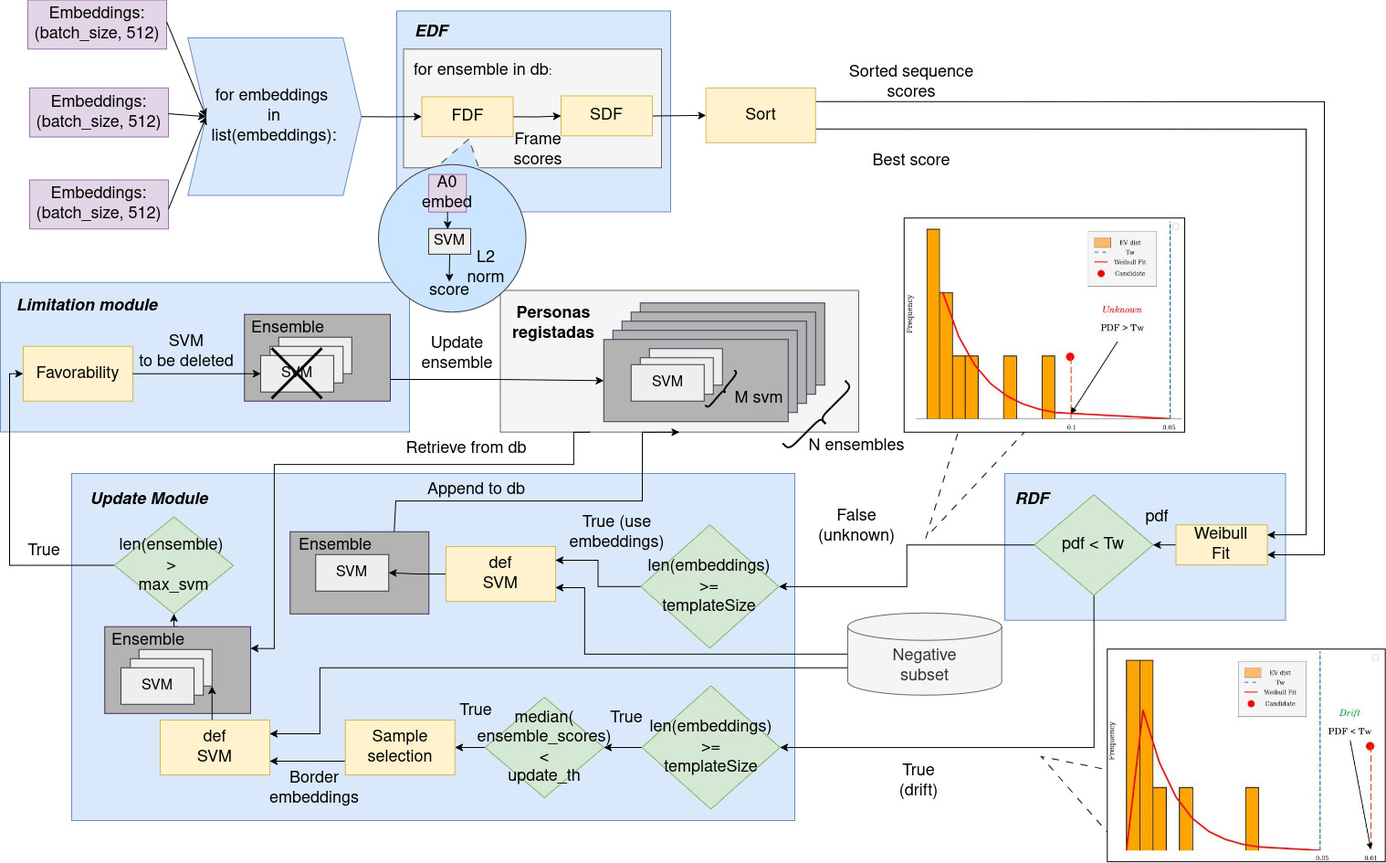
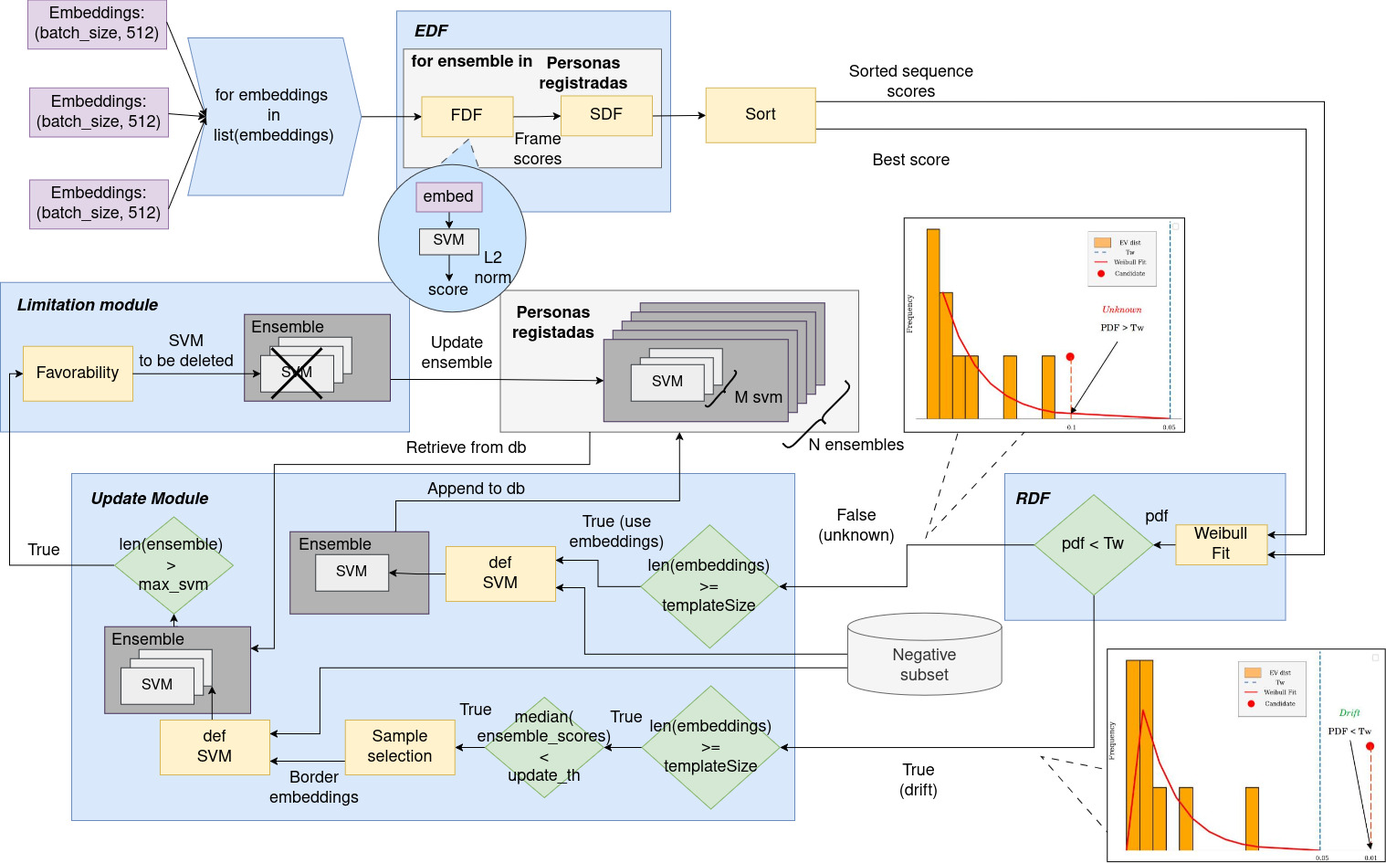
Lil bi of impl

diff --git a/TFM/contenido/6impl.tex b/TFM/contenido/6impl.tex
@@ -1,47 +1,45 @@
 \chapter{Implementación del sistema}
 \label{chap:impl}
 
-\lettrine{E}{n} este capítulo se ahonda en los fundamentos y detalles de implementación de la funcionalidad \textit{Open-World} y demás componentes para otorgar la adaptación.
+\lettrine{E}{n} este capítulo se ahonda en los fundamentos y detalles de implementación de los nuevos componentes.
 
-%\section{Fundamentos}
-%\label{subsec:erikfounds}
+TODO: Comentar implementación del procesamiento de video?
 
-TODO: El método propuesto en \cite{Erik} y que conforma la base del sistema implementado, ha sido probado en un contexto de video vigilancia bajo el \textit{\gls{dataset}} \textbf{FACE COX} \cite{cox}. También se ha utilizado el \textit{\gls{dataset}} \textbf{Youtube Faces} (YTF) \cite{ytf} que, a diferencia del anterior, se encuentra accesible de forma pública. En este proyecto se utiliza un \textit{\gls{dataset}}\dots
-El método utiliza \textbf{secuencias de video} como entrada para devolver las predicciones acerca de un IoI o para determinar una identidad desconocida.
-
-La figura \ref{fig:FITS}.
-
-\begin{figure}
-    \centering
-    \includegraphics[width=1\linewidth]{imagenes/FITS.jpg}
-    \caption{Ejemplos de distribuciones del \acrshort{evt} y como el umbral (Tw) distingue entre un desconocido (\textit{unknown} y una deriva (\textit{drift})).}
-    \label{fig:FITS}
-\end{figure}
-
-\section{Capacidad de adaptación}
-\label{sec:adapt}
-
-\subsection{Inicialización}
-
-TODO: figura?
+\section{Inicialización}
 
 En esta primera fase del sistema se crean los registros que representarán a los individuos iniciales. En este proyecto se han probado 2 aproximaciones:
 \begin{itemize}
-    \item \textbf{Supervisado}: el operador realiza una selección de los frames más representativos para cada individuo.
-    \item \textbf{No supervisado}: el sistema recoge los frames cuando aparecen un mínimo de 5 entidades simultaneas en escena (el mínimo necesario de puntos para poder aplicar Weibull). A partir de los frames de las cámaras, que estarán sincronizadas, se obtienen las \glspl{bbox} que encierran los rostros y se procede a la creación de los comités con los recortes de caras generados. \textbf{No se requiere de ninguna intervención del operador}, el sistema realiza la selección en base a unos criterios preestablecidos (ejemplo: la cara debe estar completamente dentro del rango de la cámara). En esta aproximación, es crucial el método de seguimiento (tracking) para recolectar las secuencias de caras.
+    \item \textbf{Supervisado}: el operador realiza una selección de los frames más representativos para cada individuo. El sistema crea el registro a partir de las características extraídas de dichos frames.
+    \item \textbf{No supervisado}: el sistema se encarga de recoger los frames en el instante en el que aparezcan un mínimo de entidades simultáneas en escena. A partir de los frames de las cámaras, que estarán sincronizadas, se obtienen las \glspl{bbox} y se procede a la creación de los comités con los \textit{\gls{embedding}} generados. En este modo \textbf{no se requiere de ninguna intervención del operador}, el sistema realiza la selección en base a unos criterios preestablecidos (ejemplo: la cara debe estar completamente dentro del rango de la cámara). En esta aproximación, es crucial el método de seguimiento (tracking) para recolectar las secuencias de \glspl{bbox}.
 \end{itemize}
 
-Independientemente de la aproximación escogida, se obtienen las características de cada frame de la secuencia y se crea la \acrshort{svm} inicial con la que se \textbf{inicializa el comité}. Dicha \acrshort{svm} se entrena con las características del usuario, que compondrá el set positivo, y un subconjunto de las características del resto de usuarios, que compondrá el set de negativos (escogidas aleatoriamente). Dichas características son generadas por el modelo ArcFace \cite{deng2019arcface}, es la misma red que se utiliza en \cite{Erik, andrew} y que ha demostrado ser de las mejores en el \acrshort{sota} del reconocimiento facial.
+Independientemente de la aproximación escogida, se obtienen las características de cada frame de la secuencia y se crea la \acrshort{svm} inicial con la que se \textbf{inicializa el comité}. Dicha \acrshort{svm} se entrena con las características del usuario, que compondrá el set positivo, y un subconjunto de las características del resto de usuarios, que compondrá el set de negativos (escogidas aleatoriamente).
 
-La \acrshort{svm} inicial es la que define la identidad del comité. Si dicha \acrshort{svm} está compuesta por recortes de caras de baja calidad (ejemplo: borrosas o parcialmente ocluidas), entonces el comité \textbf{no estará bien definido} y, por lo tanto, generará \textbf{mayor confusión} a la hora de aplicar Weibull para los reconocimientos.
+(TODO: donde mencionar los modelos utilizados) Dichas características son generadas por el modelo ArcFace \cite{deng2019arcface}, es la misma red que se utiliza en \cite{Erik, andrew} y que ha demostrado ser de las mejores en el \acrshort{sota} del reconocimiento facial.
 
-El resto de módulos del sistema que se exponen a continuación se ejecutan por cada secuencia de caras recolectada en cada secuencia de frames (figura \ref{fig:FACESYS}).
+La figura \ref{fig:init} muestra el funcionamiento del modo de inicialización no supervisado. A lo largo del video, se busca un instante (o frame) en el que mínimo aparezcan \textbf{5 personas} de forma simultánea, este número corresponde con la cantidad mínima de sujetos necesarios para formar una distribución de Weibull consistente \cite{Erik}. Tras localizar dicho instante, se trata de recolectar un mínimo de \glspl{bbox}, equivalente al tamaño de plantilla (templateSize) para todos los individuos por medio del método de tracking. Las \glspl{bbox} se someten a un método de filtrado que puede descartarlas si no cumplen con determinadas condiciones (ejemplo: cara parcialmente fuera de plano o una \gls{bbox} más ancha que alta). En caso de no recolectar el mínimo necesario de \glspl{bbox}, el sistema \textbf{no se inicializa}. En caso contrario, se obtienen las características (o \textit{\glspl{embedding}/features}) de los datos recogidos y se forma una estructura con los \textit{features} de todos los usuarios, que servirá para entrenar las \acrshort{svm}. Para cada individuo, se crea un \textit{ensemble} a partir de una \acrshort{svm} entrenada con las propias características del sujeto como positivos y las características del \textbf{resto de usuarios} como negativos.
+
+El funcionamiento del modo de inicialización supervisado es el mismo que el de la figura \ref{fig:init}, salvo que no es necesario seguir todo el proceso de selección de \glspl{bbox} del modo no supervisado.
+
+\begin{figure}
+    \centering
+    \includegraphics[width=1\linewidth]{imagenes/Init.jpg}
+    \caption{Inicialización no supervisada del sistema}
+    \label{fig:init}
+\end{figure}
+
+La fase de inicialización es fundamental, debido a que la \acrshort{svm} inicial es la que define la identidad del comité. Si dicha \acrshort{svm} está compuesta por muestras de baja calidad (ejemplo: caras borrosas o parcialmente ocluidas), entonces el comité \textbf{no se identificará correctamente consigo mismo} y, por lo tanto, generará \textbf{mayor confusión} a la hora de aplicar Weibull, es decir, \textbf{se generarán más desconocidos}.
+
+\section{Módulo adaptativo}
+\label{sec:adapt}
+
+A continuación se expone en detalle todas las funciones presentes en la figura \ref{fig:ADAPTSYS}.
 
 \subsection{\textit{Ensemble Decision Function} (EDF)}
 
 Es el módulo encargado de devolver una representación comparable de cada individuo que será aplicada en la decisión de reconocimiento.
 
-Por cada secuencia de entrada, siendo esta una secuencia de \textit{\glspl{embedding}} extraídas de los recortes faciales (figura \ref{fig:FACESYS}), se calculan las \textbf{puntuaciones (scores) para cada comité}. La puntuación de un comité es a su vez un valor consensuado entre los resultados de las predicciones de las \acrshort{svm} que lo conforman, el criterio de consenso (o de fusión) se basa en un percentil (generalmente la media). Aplicar percentiles es igual a escoger un conjunto amplio o reducido de \acrshort{svm}, ya que pueden existir \acrshort{svm} dañinas para el comité (ejemplo: corresponden a otra persona), los percentiles ayudan a descartar los resultados de dichas \acrshort{svm}. Para cada comité, se ejecutan las siguientes funciones:
+Por cada secuencia de entrada, siendo esta una secuencia de \textit{\gls{embedding}} (figura \ref{fig:ADAPTSYS}), se calculan las \textbf{puntuaciones (scores) para cada comité}. La puntuación de un comité es a su vez un valor consensuado entre los resultados de las predicciones de las \acrshort{svm} que lo conforman, el criterio de consenso (o de fusión) se basa en un percentil (generalmente la media). Aplicar percentiles es igual a escoger un conjunto amplio o reducido de \acrshort{svm}, ya que pueden existir \acrshort{svm} dañinas para el comité (ejemplo: corresponden a otra persona), los percentiles ayudan a descartar los resultados de dichas \acrshort{svm}. Para cada comité en la base de datos, se ejecutan las siguientes funciones:
 \begin{itemize}
     \item \textbf{FDF} (Frame Decision Function): se calculan los scores de cada \acrshort{svm} contra \textbf{un frame} de la secuencia y se fusionan las salidas (o puntuaciones) en una única puntuación del comité para dicho frame. Antes de la fusión, se aplica la normalización Euclidiana (figura \ref{eq:l2norm}) a cada puntuación con el fin de hacerlas comparables.
     \item \textbf{SDF} (Sequence Decision Function): se encarga de fusionar todas las puntuaciones de la anterior función para obtener un único resultado que representa a la \textbf{secuencia}.
@@ -54,37 +52,33 @@ Por cada secuencia de entrada, siendo esta una secuencia de \textit{\glspl{embed
 \subsection{\textit{Recognition Decision Function} (RDF)}
 Esta función determina si la entidad detectada se corresponde a un individuo previamente reclutado o a una entidad \textbf{desconocida}.
 
-TODO: El algoritmo compone una función de Weibull ajustando los parámetros de la misma para que converga con la cola de la distribución. Dicha distribución está formada por las distancias de cada puntuación con la mediana, excluyendo la puntuación más baja (siendo teóricamente la puntuación que coincide para la entidad) y las puntuaciones por encima de la mediana. Finalmente, se determina la probabilidad de pertenencia de la puntuación más baja de la distribución, si la probabilidad es lo suficientemente baja como para concluir que no pertenece a la distribución, entonces el reconocimiento es correcto y se asigna la entidad. En caso contrario, se concluye que la entidad es desconocida. Se establece un threshold (Tw, como se muestra en el algoritmo \ref{coud:weib}).
+El código \ref{coud:weib} muestra la implementación de la función RDF. Del conjunto de scores ordenados, se excluye el primer score de la distribución (que corresponde con el más bajo, por lo tanto el mejor) y se compone la distribución de distancias de cada puntuación respecto a la mediana. De los puntos de la distribución, se obtienen los parámetros shape y scale, que modelan la función de Weibull. Finalmente, se calcula la probabilidad de pertenencia a la distribución del mejor score (función weib) y se toma la decisión en base a un umbral (Tw). Si la probabilidad es inferior al umbral, se reconoce el caso como un extremo y se asigna la identidad correspondiente al sujeto, en caso contrario se devuelve como desconocido. En la figura \ref{fig:FITS} se muestran las dos posibles salidas de la función RDF recién comentadas.
 
 \input{contenido/codes/weib}
 
+\begin{figure}
+    \centering
+    \includegraphics[width=1\linewidth]{imagenes/FITS.jpg}
+    \caption{Ejemplos de distribuciones de Weibull y como el umbral (Tw) distingue entre un desconocido (\textit{unknown} y una deriva (\textit{drift})).}
+    \label{fig:FITS}
+\end{figure}
+
 \subsection{Update Module}
-Es el módulo que implementa la actualización de los comités tras el reconocimiento realizado en la anterior función. Dado un valor c, siendo este el resultado de la función RDF, pueden darse los siguientes dos escenarios:
-\begin{itemize}
-    \item \textbf{Entidad conocida (c<Tw)}: se crea una nueva \acrshort{svm} que
-          será incluida en el comité ganador (el que tiene la puntuación más baja).
-          La \acrshort{svm} se entrena con los \textit{\glspl{embedding}} de la secuencia de entrada como
-          conjunto de positivos. Como conjunto de negativos, se realiza un muestreo aleatorio de \textit{\glspl{embedding}} \textbf{del resto de comités}.
-    \item \textbf{Entidad desconocida (c>Tw)}: se crea una \acrshort{svm} en un nuevo comité representando a la entidad.
-          El conjunto de positivos es el mismo que en el caso anterior. En el caso de los negativos,
-          las muestras de cualquier comité son válidas.
-\end{itemize}
+Es el módulo que implementa la actualización de los comités tras el reconocimiento realizado en la anterior función. Pueden darse los siguientes dos escenarios (figura \ref{fig:ADAPTSYS}):
 
-Una condición necesaria para que este módulo se ejecute es que la
-secuencia de entrada para el individuo \textbf{contenga un mínimo de frames para su inicialización},
-dicho mínimo es fijado por el operador de antemano. Otra precondición,
-que aplica a las entidades conocidas, es comprobar si las caras (o muestras) a añadir son lo suficientemente representativas.
-Las puntuaciones cerca del cero indican que las muestras se encuentran en el borde de lo que es nuevo y lo que la \acrshort{svm}
-ya conoce. A partir de un valor de umbral (\textit{update\_th}) se decide si dichas muestras añaden información nueva al comité.
+TODO: ya comenté como funciona.
 
-\textbf{El tamaño del conjunto de positivos y de negativos es prefijado por el operador.}
+Una condición necesaria para que este módulo se ejecute es que la secuencia de entrada para el individuo \textbf{contenga un mínimo de frames para su inicialización}, dicho mínimo es fijado por el operador de antemano. Otra precondición, que aplica a las entidades conocidas, es comprobar si las caras (o muestras) a añadir son lo suficientemente representativas. Las puntuaciones cerca del cero indican que las muestras se encuentran en el borde de lo que es nuevo y lo que la \acrshort{svm} ya conoce. A partir de un valor de umbral (\textit{update\_th}) se decide si dichas muestras añaden información nueva al comité.
+
+\textbf{El tamaño del conjunto de positivos y de negativos es prefijado por el operador}, en la sección \ref{seq:paramtunning} se evalúa su impacto en el rendimiento.
 
 \subsection{Limitation Module}
 \label{seq:limmod}
 
-El limitation module es una función que se encuentra inherente al módulo de actualización. Si un comité excede un número prefijado de \acrshort{svm} almacenadas, se toma una decisión para eliminar una de las \acrshort{svm} según los siguientes criterios:
+El limitation module es una función que se encuentra inherente al módulo de actualización. Si un comité excede un número prefijado de \acrshort{svm} almacenadas, se toma una decisión para eliminar una de las \acrshort{svm} según los siguientes criterios.
+
 \subsubsection{Diversidad}
-Este criterio mide el valor de aportación de una \acrshort{svm} respecto al resto del comité. Se coge un conjunto aleatorio de n \textit{\glspl{embedding}} (siendo n=50) de entre todos los comités y se generan los scores utilizando las m \acrshort{svm} del comité, lo que resulta en n*m scores. TODO: \textbf{Basándose en el signo de los scores}, se acumula el producto de los signos entre scores, de forma que un valor discordante afecta en mayor medida a la propia \acrshort{svm} y en menor medida al resto de \acrshort{svm}. Un valor alto indica bajo nivel de diversidad, por ende un valor \textbf{pobre de aportación al comité}. La figura \ref{fig:diversity} muestra la fórmula de diversidad, que se calcula como en \cite{Erik}.
+Este criterio mide el valor de aportación de una \acrshort{svm} respecto al resto del comité. Se escoge un conjunto aleatorio de \textit{\glspl{embedding}} de entre todos los comités y se generan los scores utilizando las m \acrshort{svm} del comité, lo que resulta en n*m scores. TODO: \textbf{Basándose en el signo de los scores}, se acumula el producto de los signos entre scores, de forma que un valor discordante afecta en mayor medida a la propia \acrshort{svm} y en menor medida al resto de \acrshort{svm}. Un valor alto indica bajo nivel de diversidad, por ende un valor \textbf{pobre de aportación al comité}. La figura \ref{fig:diversity} muestra la fórmula de diversidad, que se calcula como en \cite{Erik}.
 
 \begin{figure}
     \centering

diff --git a/TFM/contenido/5arch.tex b/TFM/contenido/5arch.tex
@@ -4,9 +4,9 @@
 
 Este proyecto parte de un sistema que detecta y reconoce personas a partir de la información de diferentes sensores, de forma que se obtienen reconocimientos robustos y persistentes en el tiempo \cite{andrew}.
 
-El funcionamiento se muestra en la figura \ref{fig:finalsys}. Se recibe la información de una o múltiples cámaras, que son procesadas por un nodo que devuelve una lista de predicciones de los individuos en escena (nodo cámara). Cada detección se etiqueta con su posición \acrshort{3d} a partir de la imagen de distancias de la cámara. Los resultados obtenidos de la anterior fase se contrastan con las detecciones realizadas por un modelo que procesa una \gls{pcl} otorgada por un sensor \acrshort{lidar} (nodo \acrshort{lidar}). Finalmente, las salidas de todos los nodos se fusionan para reforzar las predicciones (nodo integración de sensores).
+El funcionamiento se muestra en la figura \ref{fig:finalsys}. Los nuevos componentes desarrollados se encuentran marcados en negrita, mientras que el resto de la arquitectura sigue la estructura de \cite{andrew}. El sistema puede tener 1 o varias cámaras en ejecución, que envían sus imágenes a un nodo encargado de su procesamiento (nodo cámara). Cada nodo cámara recibe los datos \textbf{de una sola cámara}, que devuelve una lista de predicciones de los individuos captados por dicha cámara. Cada detección se etiqueta con su posición \acrshort{3d} a partir de la imagen de distancias de la cámara. Los resultados obtenidos de la anterior fase se contrastan con las detecciones realizadas por un modelo que procesa una \gls{pcl} otorgada por un sensor \acrshort{lidar} (nodo \acrshort{lidar}). Finalmente, las salidas de todos los nodos se fusionan para reforzar las predicciones (nodo integración de sensores).
 
-Dentro del nodo cámara se agrupan los frames en secuencias (o videos) con el fin de explotar la coherencia espacio-temporal. Los modelos \acrshort{cnn} de detección reciben dicha secuencia de frames y devuelven los recortes (o \glspl{bbox}) con las detecciones, que son agrupados por individuo aplicando un método de seguimiento (tracking). Los recortes de caras y cuerpos se transforman en vectores de características a partir de los respectivos modelos de reconocimiento, que a su vez sirven de entrada para el módulo adaptativo, que toma la decisión de reconocimiento y actualiza la base de datos de personas registrada.
+El nodo cámara realiza un agrupamiento de los frames en secuencias (o videos) con el fin de explotar la coherencia espacio-temporal. Los modelos \acrshort{cnn} de detección reciben dicha secuencia de frames y devuelven los recortes (o \glspl{bbox}) con las detecciones, que son agrupados por individuo aplicando un método de seguimiento (tracking). Los recortes de caras y cuerpos se transforman en vectores de características a partir de los respectivos modelos de reconocimiento, que a su vez sirven de entrada para el módulo adaptativo, que toma la decisión de reconocimiento y actualiza la base de datos de personas registrada.
 
 El módulo adaptativo es el encargado de otorgar el reconocimiento \textit{Open-Set} y/o \textit{Open-World}. Dicho módulo evalúa si la persona detectada en la secuencia es un desconocido o pertenece a la base de datos. En ambos casos, el sistema se actualiza con la nueva información en forma de un nuevo registro en el sistema si es un desconocido o modificando el registro existente ante los cambios de la entidad (lo que se conoce como \textit{\textbf{concept-drift}}).
 
@@ -74,19 +74,21 @@ En la figura \ref{fig:eucls} se expone un ejemplo real, en el primer frame (figu
 
 \section{Módulo adaptativo}
 
-Tras agrupar las \glspl{bbox} por individuos y calcular sus vectores, se procesa dicha información para devolver las predicciones y actualizar el conocimiento existente ante los nuevos cambios que puedan surgir (módulo adaptativo figura \ref{fig:finalsys}). En la figura \ref{fig:FACESYS} se muestra la arquitectura de este módulo, cuyos componentes se han diseñado partiendo de \cite{Erik, CESAR} como referencia. El módulo recibe una lista de vectores agrupados por individuos, que se comparan contra la base de datos de personas registradas para averiguar si dichos sujetos pertenecen o no al sistema. La base de datos está compuesta por \textbf{comités (o colecciones) de \acrshort{svm}} por cada individuo. Se ha demostrado que múltiples \acrshort{svm} simples (ejemplo: lineales) como conjunto (\textbf{comité}) \textbf{generalizan mejor} que una única \acrshort{svm} compleja (ejemplo: sigmoide) \cite{malisiewicz2011ensemble}. Los comités de \acrshort{svm} también favorecen la adaptación a los cambios, ya que permiten agregar conocimiento acerca de una entidad entrenando una nueva \acrshort{svm} lineal o eliminar dicho conocimiento descartando la \acrshort{svm} correspondiente. De esta forma, se obtiene una representación de un individuo a partir de un conjunto de modelos ligeros, sin necesidad de reentrenar un modelo complejo desde cero \cite{malisiewicz2011ensemble}.
+Tras agrupar las \glspl{bbox} por individuos y calcular sus vectores, se procesa dicha información para devolver las predicciones y actualizar el conocimiento existente ante los nuevos cambios que puedan surgir (módulo adaptativo figura \ref{fig:finalsys}). En la figura \ref{fig:ADAPTSYS} se muestra la arquitectura de este módulo, cuyos componentes se han diseñado partiendo de \cite{Erik, CESAR} como referencia. El módulo recibe una lista de vectores agrupados por individuos, que se comparan contra la base de datos de personas registradas para averiguar si dichos sujetos pertenecen o no al sistema. La base de datos está compuesta por \textbf{comités (o colecciones) de \acrshort{svm}} por cada individuo. Se ha demostrado que múltiples \acrshort{svm} simples (ejemplo: lineales) como conjunto (\textbf{comité}) \textbf{generalizan mejor} que una única \acrshort{svm} compleja (ejemplo: sigmoide) \cite{malisiewicz2011ensemble}. Los comités de \acrshort{svm} también favorecen la adaptación a los cambios, ya que permiten agregar conocimiento acerca de una entidad entrenando una nueva \acrshort{svm} lineal o eliminar dicho conocimiento descartando la \acrshort{svm} correspondiente. De esta forma, se obtiene una representación de un individuo a partir de un conjunto de modelos ligeros, sin necesidad de reentrenar un modelo complejo desde cero \cite{malisiewicz2011ensemble}.
 
 \begin{figure}
     \centering
-    \includegraphics[width=1\linewidth]{imagenes/FACESYS.jpg}
-    \caption{Diseño del sistema adaptativo}
-    \label{fig:FACESYS}
+    \includegraphics[width=1\linewidth]{imagenes/ADAPTSYS.jpg}
+    \caption{Diseño del módulo adaptativo}
+    \label{fig:ADAPTSYS}
 \end{figure}
 
 TODO: las \acrshort{svm}, ya que por si solas no son capaces de discernir fuera del conjunto de datos con las que fueron entrenadas (\textit{Closed-Set}), por lo que un dato desconocido se clasificaría erróneamente como una de las clases del entrenamiento \cite{rudd2017extreme}
 
 Para tomar la decisión de si un sujeto es o no un desconocido, se ha implementado un algoritmo basado en el teorema estadístico \acrfull{evt} o teorema de Fisher–Tippett–Gnedenko que permite \textbf{detectar extremos} en distribuciones estadísticas. Siendo \textit{f(x)} la distribución de puntuaciones \textbf{que no corresponden con el sujeto}, se analiza si el comité que se corresponde supuestamente con el sujeto es un \textbf{extremo} de la distribución \textit{f(x)}, por lo tanto la entidad se reconoce claramente diferenciada con el resto, en caso contrario, se denota como desconocido. El \acrfull{evt} dicta que la distribución de los valores máximos o mínimos sigue una de las siguientes 3 distribuciones: Gumbel, Frechet, Weibull \cite{rudd2017extreme, scorenorm, Erik}. Gumbel y Frechet son distribuciones \textbf{no acotadas}, mientras que Weibull es una distribución acotada. Para sistemas de reconocimiento que calculan las distancias o similitudes entre puntuaciones (ejemplo: valores devueltos por una \acrshort{svm} para una clase), la distribución de puntos para cada clase sigue una distribución de Weibull, ya que los valores se encuentran acotados \cite{scorenorm}. El \acrshort{evt} otorga un conocimiento robusto, ya que convierte puntuaciones (o scores) concretos de un algoritmo (en este caso las \acrshort{svm}) en probabilidades que siguen una teoría estadística. Esto permite la \textbf{fusión de datos de diferentes fuentes} como nuevas redes de reconocimiento o nuevas cámaras diferentes a las Kinect en el sistema \cite{scorenorm}.
 
-La distribución de Weibull se modela a partir de las puntuaciones devueltas por cada comité (salida de la función EDF en la figura \ref{fig:FACESYS}) \textbf{excepto la mejor puntuación} de todos los \textit{ensembles} (que se corresponde con la más baja). Debido a que la entidad en cuestión solo puede coincidir con un comité, se comprueba si el mejor resultado (o lo que se presupone la entidad de la secuencia) \textbf{es un extremo} respecto de la distribución de puntuaciones no coincidentes (resto de \textit{ensembles}), en caso afirmativo, se asigna la etiqueta del usuario del comité con la mejor puntuación, en caso contrario, el individuo se considera \textbf{desconocido} (no coincide con ningún comité). Para determinar si la puntuación es un extremo, se calcula la probabilidad (\gls{pdf}) del mejor score a partir de la función \gls{pdf} con los parámetros obtenidos de la distribución de Weibull modelada. Si el \gls{pdf} se encuentra por debajo de un umbral (Tw), la puntuación se considera que está \textbf{al extremo de la distribución} \cite{scorenorm}.
+La distribución de Weibull se modela a partir de las puntuaciones devueltas por cada comité (salida de la función EDF en la figura \ref{fig:ADAPTSYS}) \textbf{excepto la mejor puntuación} de todos los \textit{ensembles} (que se corresponde con la más baja). Debido a que la entidad en cuestión solo puede coincidir con un comité, se comprueba si el mejor resultado (o lo que se presupone la entidad de la secuencia) \textbf{es un extremo} respecto de la distribución de puntuaciones no coincidentes (resto de \textit{ensembles}), en caso afirmativo, se asigna la etiqueta del usuario del comité con la mejor puntuación, en caso contrario, el individuo se considera \textbf{desconocido} (no coincide con ningún comité). Para determinar si la puntuación es un extremo, se obtiene la probabilidad a partir de la \acrfull{pdf} del mejor score con los parámetros obtenidos de la distribución de Weibull modelada. Si la probabilidad se encuentra por debajo de un umbral (Tw), la puntuación se considera que está \textbf{al extremo de la distribución} \cite{scorenorm}.
 
-Si la predicción es desconocida TODO:... (mirar 6impl)
+Según la entidad predecida, se toma una cierta decisión de actualización. Si el sujeto es desconocido, se crea un nuevo comité con una \acrshort{svm} que se añade al registro (update module en la figura \ref{fig:ADAPTSYS}), la \acrshort{svm} se entrena con las muestras (\textit{\gls{embedding}} de caras o cuerpos) obtenidas del propio sujeto como conjunto de positivos, mientras que el conjunto de negativos se compone de muestras aleatorias extraídas de la base de datos. Si el sujeto es conocido, se agrega una nueva \acrshort{svm} al comité, entrenada con las muestras del propio individuo como positivos y como negativos un muestreo aleatorio de todas las entidades \textbf{excepto el propio sujeto}. Si el comité alcanza el límite máximo de \acrshort{svm}, se ejecuta un algoritmo que elimina el clasificador que menos aporte (limitation module en la figura \ref{fig:ADAPTSYS}).
+
+Finalmente, el módulo adaptativo devuelve la predicción realizada al nodo integración de sensores, que se corresponde con un individuo detectado por una de las cámaras.

diff --git a/TFM/contenido/1introduccion.tex b/TFM/contenido/1introduccion.tex
@@ -11,6 +11,9 @@ Aunque las \acrshort{cnn} han demostrado excelentes resultados, sin embargo, son
 
 Durante el desarrollo del sistema base, se contempló implementar la capacidad de detectar cuando un individuo es un \textbf{desconocido} (individuo no registrado previamente en el sistema) y en ese caso agregarlo al sistema (\textit{Open-World})\cite{andrew}. Esta funcionalidad es muy útil para implementar un robot móvil guía que asista a los usuarios proporcionando un trato cercano en todo momento (ejemplo: saludarlos por su nombre). Sin embargo, con las capacidades del sistema actual no es posible implementar esta funcionalidad de manera operativa. Debido al elevado índice de sesgo que adoptan las \acrshort{cnn}, se genera una gran caída en la precisión a la hora de manejar datos diferentes a los del entrenamiento. La perspectiva del aprendizaje logra superar esta limitación \cite{Erik}, al otorgar la capacidad de añadir nuevos datos durante el tiempo de operación (también conocido como \textit{Open-World}).
 
+TODO: El método propuesto en \cite{Erik} y que conforma la base del sistema implementado, ha sido probado en un contexto de video vigilancia bajo el \textit{\gls{dataset}} \textbf{FACE COX} \cite{cox}. También se ha utilizado el \textit{\gls{dataset}} \textbf{Youtube Faces} (YTF) \cite{ytf} que, a diferencia del anterior, se encuentra accesible de forma pública. En este proyecto se utiliza un \textit{\gls{dataset}}\dots
+El método utiliza \textbf{secuencias de video} como entrada para devolver las predicciones acerca de un IoI o para determinar una identidad desconocida.
+
 Para concluir, este proyecto surgió a partir de la idea de implementar un complejo sistema de detección y reconocimiento capaz de agregar a nuevos usuarios bajo su confirmación. Se buscaron dispositivos que fueran potentes, pero a su vez de bajo consumo y fácilmente acoplables a un robot móvil, de forma que todas las operaciones del sistema no dependan de un ordenador central que limite la movilidad del robot.
 
 TODO: El método requiere de un conjunto reducido de datos para su inicialización (por ejemplo, los datos biométricos de 5 personas). Dado que la recopilación de imágenes faciales está fuertemente regulada por la ley de protección de datos, el uso de este enfoque resulta especialmente relevante para el presente proyecto \cite{Erik}.

diff --git a/TFM/bibliografia/glosario.tex b/TFM/bibliografia/glosario.tex
@@ -27,12 +27,6 @@
     description={Área que encierra a un objeto identificado por un modelo de detección y que otorga el tamaño y la posición de dicho objeto. Sirve para evaluar la precisión de modelos de detección, implementar algoritmos de seguimiento, entre otras funciones.}
 }
 
-\newglossaryentry{pdf}
-{
-    name=Probability Density Function,
-    description={TODO.}
-}
-
 \newglossaryentry{wrapper}
 {
     name=wrapper,

diff --git a/TFM/bibliografia/acronimos.tex b/TFM/bibliografia/acronimos.tex
@@ -19,6 +19,7 @@
 \newacronym{evt}{EVT}{Extreme Value Theory}
 \newacronym{citic}{CITIC}{Centro de Investigación en Tecnoloxías da Información e das Comunicacións}
 \newacronym{json}{JSON}{JavaScript Object Notation}
+\newacronym{pdf}{PDF}{Probability Density Function}
 
 
 %%%%%%%%%%%%%%%%%%%%%%%%%%%%%%%%%%%%%%%%%%%%%%%%%%%%%%%%%%%%%%%%%%%%%%%%%%%%%%%%
